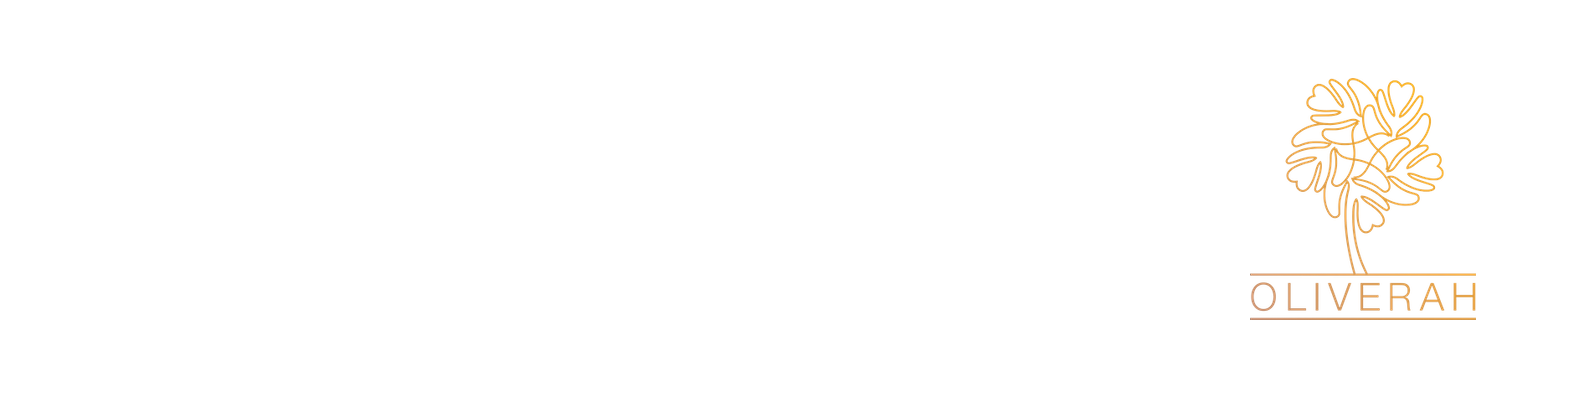
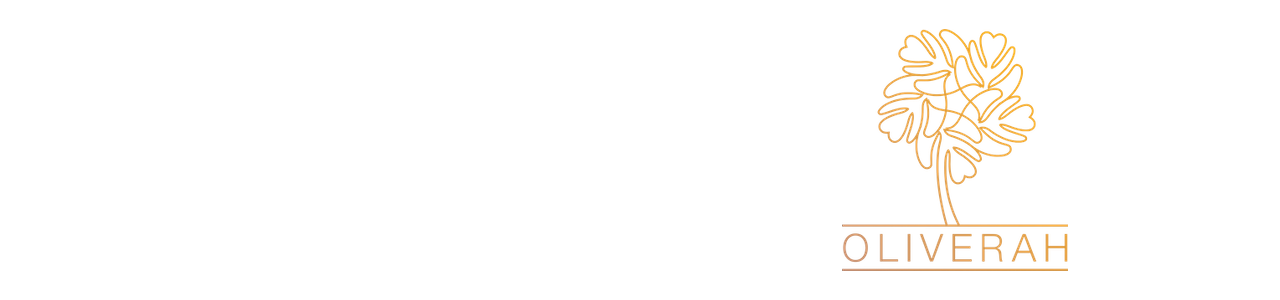
Add new home page

Changed region(s): [[0.6562, 0.09, 0.9375, 0.93]]

diff --git a/_layouts/sph-splash.html b/_layouts/sph-splash.html
@@ -1,0 +1,8 @@
+---
+layout: splash
+---
+<style>#footer {margin-top: 0;}</style>
+
+{% include sph/align-header.html position=page.header.position %}
+
+{{ content }}

diff --git a/_pages/home.md b/_pages/home.md
@@ -1,0 +1,58 @@
+---
+#
+# oliverah.com home page
+#
+# Simple memoji based splash page with gallery of links
+#
+# Header image adjusted to keep memoji being inapproriately cut based on page dimensions
+#
+
+title             : "Oliverah<br/>Consulting<br/>Services"
+tagline           : |-
+  Business Development & Project Management Services for the Technology Industry.
+
+author            : Personal
+read_time         : false
+
+layout            : sph-splash
+
+header:
+  overlay_image   : /assets/images/OliverahClear.jpg
+  #overlay_filter  : rgba(185,144,117,0.2)
+  position        : "81% 50%" #Shift image up
+  #actions:
+  #  - label       : About Me...
+  #    url         : /about
+
+permalink         : /
+
+sctag             : Home #Statcounter Tag
+
+gallery:
+  # Oliverah Site Image
+  - title         : "About Oliverah..."
+    alt           : "About Oliverah"
+    url           : /about
+    image_path    : /assets/images/sph-oliverah.jpg
+
+  # Contact Image
+  - title         : "Contact Me Here..."
+    alt           : "Contact Me"
+    url           : /contact
+    image_path    : /assets/images/sph-contact.jpg
+
+  # File Upload Image
+  - title         : "Send Stuff Here..."
+    alt           : "File Upload"
+    url           : /uploads
+    image_path    : /assets/images/sph-upload.jpg
+
+01234567890123456 : Align
+---
+<!--style>.page__hero--overlay {height: 100%;}</style-->
+<style>
+  .page__hero--overlay {min-height: 350px;}
+  .page__title {color: #F3F3F3 !important; }
+  .page__lead  {color: #F3F3F3 !important; }
+</style>
+{% include gallery %}

diff --git a/_pages/contact.md b/_pages/contact.md
@@ -1,14 +1,15 @@
 ---
 permalink: /contact/
 classes: wide
-tagline: Contact Details
+title: Contact Details
+tagline: Get in touch!
 
 header:
   overlay_image: /assets/images/OliverahClear.png
   overlay_filter: rgba(185,144,117,0.2)
   actions:
     - label: "About"
-      url: "/"
+      url: "/about"
 
 label:
   msg     : "<strong><i class=\"far fa-fw fa-comment\" aria-hidden=\"true\">       </i>&nbsp;Msgs:         </strong>"
@@ -22,7 +23,7 @@ label:
   upload  : "<strong><i class=\"fas fa-fw fa-upload\" aria-hidden=\"true\">        </i>&nbsp;Uploads:      </strong>"
 
 ---
-{% include sph/align-header.html position="100% 50%" %}
+{% include sph/align-header.html position="80% 50%" %}
 
 <style>
   a { text-decoration: none; }

diff --git a/_pages/about.md b/_pages/about.md
@@ -5,18 +5,18 @@ layout: single
 classes:
   - wide
   - smallfont
-title: "Oliverah Consulting"
+title: "About Oliverah"
+tagline: Bio & Focus
 header:
   overlay_image: /assets/images/OliverahClear.png
   overlay_filter: rgba(185,144,117,0.2)
   actions:
-    - label: "Contact Us"
+    - label: "Contact"
       url: "/contact/"
 
-permalink: /
-redirect_from: /about
+permalink: /about
 ---
-{% include sph/align-header.html position="100% 50%" %}
+{% include sph/align-header.html position="80% 50%" %}
 
 Consultancy in Business Development, Sales/Marketing, Key Account Management and Program Management in the areas of Digital Technology, Telecommunications & Data Communications and Semiconductors.
 
